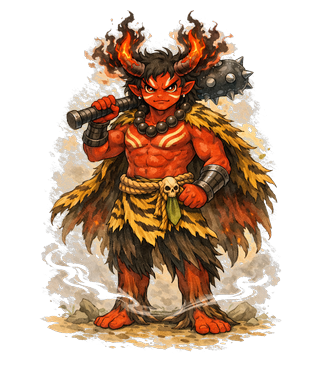
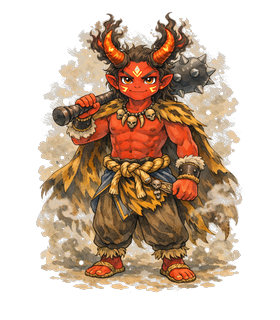
Add evolved forms for Kyubi and all 12 Americas characters; update Oni
- Process 14 new evolved images: background removed, resized to 280×320
- Add EVOLUTIONS map entries for kyubi, capybara, axolotl, quetzal,
  condor, jaguar, armadillo, llama, chupacabra, coati, tapir, anaconda,
  colibri — each with lore, haiku, accent color, region
- Replace oni_evolved.png with updated image

diff --git a/characters.js b/characters.js
@@ -259,6 +259,281 @@ const EVOLUTIONS = {
     </g>
   </g>
 </svg>`
+  },
+
+  kyubi: {
+    id: 'kyubi_evolved',
+    name: '九尾狐 · Kyūbi',
+    nameShort: '九尾狐',
+    region: 'japanese',
+    subtitle: 'Nine-Tail Fox Spirit · Evolved',
+    rarity: 'legendary',
+    rarityLabel: '✦ Legendary',
+    accentColor: '#0047ff',
+    lore: 'All nine tails blazing, Kyūbi has grown into the full power of her ancient bloodline. Each tail now holds a century of focus, fanned wide like a corona of living starlight.',
+    haiku: '九つの炎<br>満ちた力で輝く<br>星の意志よ',
+    svg: `
+<svg width="320" height="380" viewBox="0 0 320 380" xmlns="http://www.w3.org/2000/svg" xmlns:xlink="http://www.w3.org/1999/xlink">
+  <g class="char-float">
+    <g class="char-body">
+      <image href="/chars/kyubi_evolved.png" x="10" y="0" width="300" height="380"/>
+    </g>
+  </g>
+</svg>`
+  },
+
+  // ── Americas Evolutions ────────────────────────────────────────────────────
+
+  capybara: {
+    id: 'capybara_evolved',
+    name: 'Capybara · カピバラ',
+    nameShort: 'カピバラ',
+    region: 'americas',
+    subtitle: 'River Giant · Evolved',
+    rarity: 'common',
+    rarityLabel: '◇ Common',
+    accentColor: '#C4924A',
+    lore: 'The river itself bends around the elder capybara now. Every creature in the wetlands has rested on its back at least once, and it remembers them all.',
+    haiku: '川の長老<br>全ての命を抱く<br>大地の母よ',
+    svg: `
+<svg width="320" height="380" viewBox="0 0 320 380" xmlns="http://www.w3.org/2000/svg" xmlns:xlink="http://www.w3.org/1999/xlink">
+  <g class="char-float">
+    <g class="char-body">
+      <image href="/chars/capybara_evolved.png" x="10" y="0" width="300" height="380"/>
+    </g>
+  </g>
+</svg>`
+  },
+
+  axolotl: {
+    id: 'axolotl_evolved',
+    name: 'Axolotl · アホロートル',
+    nameShort: 'アホロートル',
+    region: 'americas',
+    subtitle: 'Eternal Larva · Evolved',
+    rarity: 'rare',
+    rarityLabel: '◈ Rare',
+    accentColor: '#FF69B4',
+    lore: 'Axolotl has chosen to bloom without ever leaving its waters. Its gills glow like coral lanterns now, a living proof that renewal never requires becoming something else.',
+    haiku: '変わらぬ美しさ<br>水底で花が咲く<br>永遠の光よ',
+    svg: `
+<svg width="320" height="380" viewBox="0 0 320 380" xmlns="http://www.w3.org/2000/svg" xmlns:xlink="http://www.w3.org/1999/xlink">
+  <g class="char-float">
+    <g class="char-body">
+      <image href="/chars/axolotl_evolved.png" x="10" y="0" width="300" height="380"/>
+    </g>
+  </g>
+</svg>`
+  },
+
+  quetzal: {
+    id: 'quetzal_evolved',
+    name: 'Quetzal · ケツァル',
+    nameShort: 'ケツァル',
+    region: 'americas',
+    subtitle: 'Sacred Bird · Evolved',
+    rarity: 'rare',
+    rarityLabel: '◈ Rare',
+    accentColor: '#00A854',
+    lore: 'The quetzal\'s tail now trails a full comet arc of jade light. When it flies overhead, the Maya say a new age of clarity has arrived.',
+    haiku: '翡翠の尾が<br>空に新時代を描く<br>神の鳥よ',
+    svg: `
+<svg width="320" height="380" viewBox="0 0 320 380" xmlns="http://www.w3.org/2000/svg" xmlns:xlink="http://www.w3.org/1999/xlink">
+  <g class="char-float">
+    <g class="char-body">
+      <image href="/chars/quetzal_evolved.png" x="10" y="0" width="300" height="380"/>
+    </g>
+  </g>
+</svg>`
+  },
+
+  condor: {
+    id: 'condor_evolved',
+    name: 'Condor · コンドル',
+    nameShort: 'コンドル',
+    region: 'americas',
+    subtitle: 'Sky Elder · Evolved',
+    rarity: 'rare',
+    rarityLabel: '◈ Rare',
+    accentColor: '#C62828',
+    lore: 'The condor now rides thermals that circle the entire Andes. It has not touched the ground in three years — it no longer needs to.',
+    haiku: '大空を舞い<br>三年間翼を休めず<br>風の王者よ',
+    svg: `
+<svg width="320" height="380" viewBox="0 0 320 380" xmlns="http://www.w3.org/2000/svg" xmlns:xlink="http://www.w3.org/1999/xlink">
+  <g class="char-float">
+    <g class="char-body">
+      <image href="/chars/condor_evolved.png" x="10" y="0" width="300" height="380"/>
+    </g>
+  </g>
+</svg>`
+  },
+
+  jaguar: {
+    id: 'jaguar_evolved',
+    name: 'Jaguar · ジャガー',
+    nameShort: 'ジャガー',
+    region: 'americas',
+    subtitle: 'Spotted King · Evolved',
+    rarity: 'rare',
+    rarityLabel: '◈ Rare',
+    accentColor: '#3a8c2f',
+    lore: 'The jaguar\'s spots have deepened into windows through which the rainforest itself watches. It no longer hunts — the forest simply delivers.',
+    haiku: '斑点は窓<br>密林の目となりて<br>静かに待つ王',
+    svg: `
+<svg width="320" height="380" viewBox="0 0 320 380" xmlns="http://www.w3.org/2000/svg" xmlns:xlink="http://www.w3.org/1999/xlink">
+  <g class="char-float">
+    <g class="char-body">
+      <image href="/chars/jaguar_evolved.png" x="10" y="0" width="300" height="380"/>
+    </g>
+  </g>
+</svg>`
+  },
+
+  armadillo: {
+    id: 'armadillo_evolved',
+    name: 'Armadillo · アルマジロ',
+    nameShort: 'アルマジロ',
+    region: 'americas',
+    subtitle: 'Iron Shell · Evolved',
+    rarity: 'common',
+    rarityLabel: '◇ Common',
+    accentColor: '#7C5C3A',
+    lore: 'The armadillo\'s shell has grown rings like a tree, each one a year of perfect, patient focus. When it curls now, it becomes a world unto itself.',
+    haiku: '年輪の甲羅<br>丸くなれば宇宙<br>古き旅人よ',
+    svg: `
+<svg width="320" height="380" viewBox="0 0 320 380" xmlns="http://www.w3.org/2000/svg" xmlns:xlink="http://www.w3.org/1999/xlink">
+  <g class="char-float">
+    <g class="char-body">
+      <image href="/chars/armadillo_evolved.png" x="10" y="0" width="300" height="380"/>
+    </g>
+  </g>
+</svg>`
+  },
+
+  llama: {
+    id: 'llama_evolved',
+    name: 'Llama · リャマ',
+    nameShort: 'リャマ',
+    region: 'americas',
+    subtitle: 'Andean Guide · Evolved',
+    rarity: 'common',
+    rarityLabel: '◇ Common',
+    accentColor: '#e88c50',
+    lore: 'The llama has walked every pass in the Andes twice over. Its wool now holds the warmth of every hearth fire it has ever passed, and pilgrims follow it without knowing why.',
+    haiku: '山道を越えて<br>羊毛に宿る温もり<br>道しるべの魂',
+    svg: `
+<svg width="320" height="380" viewBox="0 0 320 380" xmlns="http://www.w3.org/2000/svg" xmlns:xlink="http://www.w3.org/1999/xlink">
+  <g class="char-float">
+    <g class="char-body">
+      <image href="/chars/llama_evolved.png" x="10" y="0" width="300" height="380"/>
+    </g>
+  </g>
+</svg>`
+  },
+
+  chupacabra: {
+    id: 'chupacabra_evolved',
+    name: 'Chupacabra · チュパカブラ',
+    nameShort: 'チュパカブラ',
+    region: 'americas',
+    subtitle: 'Glowing Cryptid · Evolved',
+    rarity: 'legendary',
+    rarityLabel: '✦ Legendary',
+    accentColor: '#76FF03',
+    lore: 'The chupacabra is no longer a rumor at the edge of sight — it blazes openly now, too radiant to dismiss. Those who see it no longer doubt what they are capable of.',
+    haiku: '光り輝き<br>疑いを焼き尽くし<br>伝説は実となる',
+    svg: `
+<svg width="320" height="380" viewBox="0 0 320 380" xmlns="http://www.w3.org/2000/svg" xmlns:xlink="http://www.w3.org/1999/xlink">
+  <g class="char-float">
+    <g class="char-body">
+      <image href="/chars/chupacabra_evolved.png" x="10" y="0" width="300" height="380"/>
+    </g>
+  </g>
+</svg>`
+  },
+
+  coati: {
+    id: 'coati_evolved',
+    name: 'Coati · コアティ',
+    nameShort: 'コアティ',
+    region: 'americas',
+    subtitle: 'Ring-Tail Wanderer · Evolved',
+    rarity: 'common',
+    rarityLabel: '◇ Common',
+    accentColor: '#E8762A',
+    lore: 'The coati has poked its nose into every corner of the forest floor and memorized them all. Now it leads the curious to exactly what they were looking for.',
+    haiku: '森の隅々<br>長い鼻で探し当て<br>導く旅人よ',
+    svg: `
+<svg width="320" height="380" viewBox="0 0 320 380" xmlns="http://www.w3.org/2000/svg" xmlns:xlink="http://www.w3.org/1999/xlink">
+  <g class="char-float">
+    <g class="char-body">
+      <image href="/chars/coati_evolved.png" x="10" y="0" width="300" height="380"/>
+    </g>
+  </g>
+</svg>`
+  },
+
+  tapir: {
+    id: 'tapir_evolved',
+    name: 'Tapir · バク',
+    nameShort: 'バク',
+    region: 'americas',
+    subtitle: 'Dream-Eater · Evolved',
+    rarity: 'common',
+    rarityLabel: '◇ Common',
+    accentColor: '#7B6B5A',
+    lore: 'Tapir has walked the same forest path for sixty million years and finally knows every dream that lives beneath it. Its footsteps barely leave a mark now.',
+    haiku: '六千万年<br>同じ道を歩み続け<br>夢を知り尽くす',
+    svg: `
+<svg width="320" height="380" viewBox="0 0 320 380" xmlns="http://www.w3.org/2000/svg" xmlns:xlink="http://www.w3.org/1999/xlink">
+  <g class="char-float">
+    <g class="char-body">
+      <image href="/chars/tapir_evolved.png" x="10" y="0" width="300" height="380"/>
+    </g>
+  </g>
+</svg>`
+  },
+
+  anaconda: {
+    id: 'anaconda_evolved',
+    name: 'Anaconda · アナコンダ',
+    nameShort: 'アナコンダ',
+    region: 'americas',
+    subtitle: 'River Sovereign · Evolved',
+    rarity: 'rare',
+    rarityLabel: '◈ Rare',
+    accentColor: '#2E7D32',
+    lore: 'The anaconda now spans the full width of the river. Boats pass over it without knowing, feeling only a strange peace, as if the current itself were alive and guiding them.',
+    haiku: '川幅を超え<br>知らぬ間に渡る舟<br>静けさの神よ',
+    svg: `
+<svg width="320" height="380" viewBox="0 0 320 380" xmlns="http://www.w3.org/2000/svg" xmlns:xlink="http://www.w3.org/1999/xlink">
+  <g class="char-float">
+    <g class="char-body">
+      <image href="/chars/anaconda_evolved.png" x="10" y="0" width="300" height="380"/>
+    </g>
+  </g>
+</svg>`
+  },
+
+  colibri: {
+    id: 'colibri_evolved',
+    name: 'Colibri · コリブリ',
+    nameShort: 'コリブリ',
+    region: 'americas',
+    subtitle: 'Jeweled Hummingbird · Evolved',
+    rarity: 'common',
+    rarityLabel: '◇ Common',
+    accentColor: '#00BFA5',
+    lore: 'Colibri now drinks from blooms in three time zones simultaneously. Its wings leave trails of iridescent color that linger for hours, lighting the way for slower creatures.',
+    haiku: '三つの時間<br>同時に花から飲む<br>虹の道しるべ',
+    svg: `
+<svg width="320" height="380" viewBox="0 0 320 380" xmlns="http://www.w3.org/2000/svg" xmlns:xlink="http://www.w3.org/1999/xlink">
+  <g class="char-float">
+    <g class="char-body">
+      <image href="/chars/colibri_evolved.png" x="10" y="0" width="300" height="380"/>
+    </g>
+  </g>
+</svg>`
   }
 };
 
